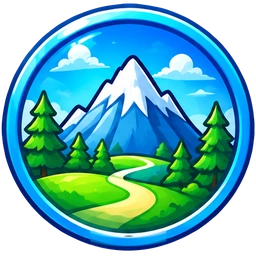
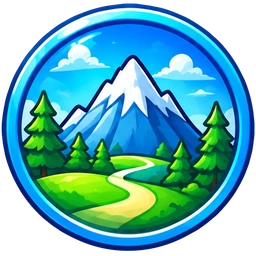
Badges restaurants : plus de démarcation à l'endroit des cadenas (v183)
Claude-Session: https://claude.ai/code/session_015rMa72ZKTeXG5gb4Qifn48

Changed region(s): [[0.3125, 0.875, 0.6875, 1.0]]

diff --git a/js/app.js b/js/app.js
@@ -1,17 +1,17 @@
 // Y'a du peuple ? — logique de l'appli (carte, fiche, signalement, compte).
-import { api, DEMO } from './api.js?v=182';
+import { api, DEMO } from './api.js?v=183';
 import {
   MAP_STYLE_URL, DEFAULT_CENTER, DEFAULT_ZOOM, CONTACT_EMAIL, GOOGLE_CLIENT_ID,
   ROUTE, REFRESH_MS,
-} from './config.js?v=182';
+} from './config.js?v=183';
 import {
   LEVELS, LEVEL_INFO, WAIT_INFO, NO_INFO, levelInfo, describeStatus, mainStatus, brandShort,
   theoryLevelAt, parisNow, bestTimeToday, fmtHour, distanceM, fmtDistance, ago,
   levelFromPercent, gDay, dayHours, openDuringHour, bestTimeFromProfile, openState, hoursLines,
   estimateRoute, fmtDuration,
-} from './levels.js?v=182';
-import { airbnbize, addShieldImage } from './mapstyle.js?v=182';
-import { BRAND_PATHS } from './brands.js?v=182';
+} from './levels.js?v=183';
+import { airbnbize, addShieldImage } from './mapstyle.js?v=183';
+import { BRAND_PATHS } from './brands.js?v=183';
 
 // ---------------------------------------------------------------------------
 // État
@@ -1611,7 +1611,7 @@ async function renderAccount(tab = 'profil', opts = {}) {
     </div>
     <div class="referral">
       <div class="ref-head">
-        <img class="ref-ico" src="icons/badges/ref1.webp?v=182" alt="">
+        <img class="ref-ico" src="icons/badges/ref1.webp?v=183" alt="">
         <div class="grow"><div class="t">Parrainage</div><div class="s">Invite tes amis : vous gagnez tous les deux.</div></div>
         <span class="ref-count"><b>${p.referrals ?? 0}</b>${(p.referrals ?? 0) > 1 ? 'amis' : 'ami'}</span>
       </div>
@@ -1668,8 +1668,8 @@ const custom = {
   async load() { if (!this.list.length) this.list = await api.customizations() || []; return this.list; },
   find(kind, code) { return this.list.find((c) => c.kind === kind && c.code === code); },
   // Valeur = fichier image de l'appli (icons/avatars/…svg, icons/banners/…svg) ; ancien format emoji/dégradé toléré.
-  img(v, cls = '') { return /\.(webp|png|svg)$/.test(v || '') ? `<img src="${v}?v=182" alt="" class="${cls}">` : (v || ''); },
-  bg(v) { return /\.(webp|png|svg)$/.test(v || '') ? `url(${v}?v=182) center/cover` : v; },
+  img(v, cls = '') { return /\.(webp|png|svg)$/.test(v || '') ? `<img src="${v}?v=183" alt="" class="${cls}">` : (v || ''); },
+  bg(v) { return /\.(webp|png|svg)$/.test(v || '') ? `url(${v}?v=183) center/cover` : v; },
   avatar(code) { return this.img(this.find('avatar', code)?.value, 'avatar-img' + (String(code).startsWith('badge_') ? ' is-badge' : '')); },
   // Bannière = ruban qui porte le pseudo (rubans du 16/11/2026, outils/rubans_sheet2.py, découpés tels quels).
   // Pseudo : centré sur la bande de chaque ruban (hauteur mesurée) + contour de la couleur du ruban, foncée.
@@ -1677,7 +1677,7 @@ const custom = {
   ribbon(code, pseudo) {
     const b = this.find('banner', code) || this.list.find((c) => c.kind === 'banner');
     const [ty, tc] = this.RIB[b?.code] || ['46%', '#0B1F3A'];
-    return `<div class="ribbon" style="--ty:${ty};--tc:${tc}">${b ? `<img src="${b.value}?v=182" alt="">` : ''}<span>${esc(pseudo || '')}</span></div>`;
+    return `<div class="ribbon" style="--ty:${ty};--tc:${tc}">${b ? `<img src="${b.value}?v=183" alt="">` : ''}<span>${esc(pseudo || '')}</span></div>`;
   },
 };
 async function openCustomize() {
@@ -1689,7 +1689,7 @@ async function openCustomize() {
     const needBadge = c.requires_badge && !mine.has(c.requires_badge);
     const locked = lvl < c.min_level || needBadge;
     const on = (c.kind === 'avatar' ? p.avatar : p.banner) === c.code;
-    const inner = c.kind === 'avatar' ? `<span class="cz-emoji">${custom.img(c.value, 'cz-img')}</span>` : `<span class="cz-ribbon"><img src="${c.value}?v=182" alt=""></span>`;
+    const inner = c.kind === 'avatar' ? `<span class="cz-emoji">${custom.img(c.value, 'cz-img')}</span>` : `<span class="cz-ribbon"><img src="${c.value}?v=183" alt=""></span>`;
     const label = c.requires_badge ? (needBadge ? '🔒' : '✅') : `${locked ? '🔒 ' : ''}Niv. ${c.min_level}`;
     return `<button type="button" class="cz ${on ? 'on' : ''} ${locked ? 'locked' : ''}" data-kind="${c.kind}" data-code="${c.code}" ${locked ? 'disabled' : ''}>
       ${inner}<span class="cz-lock">${esc(label)}</span></button>`;
@@ -1769,7 +1769,7 @@ const BADGE_ART = new Set(['v1', 'v10', 'v50', 'v100', 'v250', 'v500', 'drive10'
 // Badges en .svg : plus aucun (outils/badges_sheet.py et badges_sheet2.py découpent les images ChatGPT).
 const BADGE_SVG = new Set(); // tous les badges sont maintenant des images ChatGPT (.webp)
 const badgeImg = (code) => BADGE_ART.has(code)
-  ? `<img src="icons/badges/${code}.${BADGE_SVG.has(code) ? 'svg' : 'webp'}?v=182" alt="" class="badge-img">`
+  ? `<img src="icons/badges/${code}.${BADGE_SVG.has(code) ? 'svg' : 'webp'}?v=183" alt="" class="badge-img">`
   : `<span class="badge-emoji">${BADGE_ICONS[code] || '🏅'}</span>`;
 function badgesHtml(rows = []) {
   if (!rows.length) return '<p class="muted">Aucun badge pour le moment.</p>';

diff --git a/index.html b/index.html
@@ -21,13 +21,13 @@
   <link rel="preconnect" href="https://tiles.openfreemap.org" crossorigin>
   <link rel="preconnect" href="https://ygekcpnsjbbdgtmlxdce.supabase.co" crossorigin>
   <link rel="manifest" href="manifest.webmanifest">
-  <link rel="icon" href="icons/fav-64.png?v=182" type="image/png" sizes="64x64">
-  <link rel="icon" href="icons/fav-192.png?v=182" type="image/png" sizes="192x192">
-  <link rel="apple-touch-icon" href="icons/icon-192.png?v=182">
+  <link rel="icon" href="icons/fav-64.png?v=183" type="image/png" sizes="64x64">
+  <link rel="icon" href="icons/fav-192.png?v=183" type="image/png" sizes="192x192">
+  <link rel="apple-touch-icon" href="icons/icon-192.png?v=183">
   <meta name="apple-mobile-web-app-capable" content="yes">
   <meta name="apple-mobile-web-app-status-bar-style" content="default">
   <link rel="stylesheet" href="vendor/maplibre-gl.css">
-  <link rel="stylesheet" href="css/app.css?v=182">
+  <link rel="stylesheet" href="css/app.css?v=183">
 </head>
 <body class="intro">
   <div id="map" aria-label="Carte des restaurants"></div>
@@ -70,7 +70,7 @@
   <section class="welcome" id="welcome" hidden>
     <div class="welcome-inner">
       <div class="welcome-logo">
-        <img src="icons/icon-512.png?v=182" alt="" width="110" height="110" style="border-radius:26px">
+        <img src="icons/icon-512.png?v=183" alt="" width="110" height="110" style="border-radius:26px">
       </div>
       <h1>Y'a du peuple&nbsp;?</h1>
       <p class="slogan" id="slogan">Venu pour manger, pas pour poireauter.</p>
@@ -89,6 +89,6 @@
 
   <script src="vendor/maplibre-gl.js"></script>
   <script src="vendor/supabase.js"></script>
-  <script type="module" src="js/app.js?v=182"></script>
+  <script type="module" src="js/app.js?v=183"></script>
 </body>
 </html>

diff --git a/demo.html b/demo.html
@@ -7,12 +7,12 @@
   <meta name="description" content="L'affluence des fast-foods en direct, salle et Drive.">
   <meta name="theme-color" content="#0B1F3A">
   <link rel="manifest" href="manifest.webmanifest">
-  <link rel="icon" href="icons/fav-64.png?v=182" type="image/png">
-  <link rel="apple-touch-icon" href="icons/icon-192.png?v=182">
+  <link rel="icon" href="icons/fav-64.png?v=183" type="image/png">
+  <link rel="apple-touch-icon" href="icons/icon-192.png?v=183">
   <meta name="apple-mobile-web-app-capable" content="yes">
   <meta name="apple-mobile-web-app-status-bar-style" content="default">
   <link rel="stylesheet" href="vendor/maplibre-gl.css">
-  <link rel="stylesheet" href="css/app.css?v=182">
+  <link rel="stylesheet" href="css/app.css?v=183">
 </head>
 <body class="intro">
   <div id="map" aria-label="Carte des restaurants"></div>
@@ -55,7 +55,7 @@
   <section class="welcome" id="welcome" hidden>
     <div class="welcome-inner">
       <div class="welcome-logo">
-        <img src="icons/icon-512.png?v=182" alt="" width="110" height="110" style="border-radius:26px">
+        <img src="icons/icon-512.png?v=183" alt="" width="110" height="110" style="border-radius:26px">
       </div>
       <h1>Y'a du peuple&nbsp;?</h1>
       <p class="slogan" id="slogan">Venu pour manger, pas pour poireauter.</p>
@@ -75,6 +75,6 @@
   <script>window.YDP_DEMO = true;</script>
   <script src="vendor/maplibre-gl.js"></script>
   <script src="vendor/supabase.js"></script>
-  <script type="module" src="js/app.js?v=182"></script>
+  <script type="module" src="js/app.js?v=183"></script>
 </body>
 </html>

diff --git a/affiche.html b/affiche.html
@@ -68,9 +68,9 @@
     <div class="url">yadupeuple.github.io · gratuit, sans téléchargement</div>
   </div>
 
-  <script src="vendor/qrcode.js?v=182"></script>
+  <script src="vendor/qrcode.js?v=183"></script>
   <script type="module">
-    import { SUPABASE_URL, SUPABASE_PUBLISHABLE_KEY } from './js/config.js?v=182';
+    import { SUPABASE_URL, SUPABASE_PUBLISHABLE_KEY } from './js/config.js?v=183';
     const SITE = 'https://yadupeuple.github.io/';
     const pick = document.getElementById('pick');
     const params = new URLSearchParams(location.search);

diff --git a/js/api.js b/js/api.js
@@ -1,6 +1,6 @@
 // Accès aux données : Supabase en vrai, ou un faux serveur en mode démo (?demo).
-import { SUPABASE_URL, SUPABASE_PUBLISHABLE_KEY } from './config.js?v=182';
-import { createDemoApi } from './demo.js?v=182';
+import { SUPABASE_URL, SUPABASE_PUBLISHABLE_KEY } from './config.js?v=183';
+import { createDemoApi } from './demo.js?v=183';
 
 // Charge une table par pages de 1000 : 5 pages en parallèle, puis la suite si besoin.
 async function pagesInParallel(page, first = 5) {

diff --git a/js/demo.js b/js/demo.js
@@ -1,6 +1,6 @@
 // Faux serveur pour le mode démo (?demo) : aucune donnée réelle n'est lue ni écrite.
-import { DEMO_ESTABLISHMENTS } from './demo-data.js?v=182';
-import { distanceM, LEVELS, theoryLevelAt, parisNow } from './levels.js?v=182';
+import { DEMO_ESTABLISHMENTS } from './demo-data.js?v=183';
+import { distanceM, LEVELS, theoryLevelAt, parisNow } from './levels.js?v=183';
 
 const wait = (ms = 150) => new Promise((r) => setTimeout(r, ms));
 

diff --git a/outils/badges_restos.py b/outils/badges_restos.py
@@ -10,21 +10,24 @@ for code in ['explorer', 'explorer10', 'explorer15', 'explorer20', 'explorer30']
     cx, cy, R = C[code]
     H, W = P.shape[:2]
     yy, xx = np.mgrid[0:H, 0:W]
-    lock = (abs(xx - cx) <= 64) & (yy >= cy + R - 40)
     rr = np.hypot(xx - cx, yy - cy); th = np.arctan2(yy - cy, xx - cx)
     img = P.copy()
-    sel = lock & (rr <= R + 2) & (rr >= R - 30)   # seulement l anneau (le cadenas ne touche que lui)
+    # Zone du cadenas (bas de l'anneau) : chaque pixel prend la couleur interpolée entre les deux bords de la zone,
+    # au même rayon (dégradé continu, aucune démarcation).
+    h = np.radians(25)
+    da = th - np.pi / 2
+    sel = (np.abs(da) < h) & (rr >= R - 36) & (rr <= R + 3)
     ys, xs = np.where(sel)
-    out = np.zeros((len(ys), 3)); wsum = np.zeros(len(ys))
-    for d in np.radians([-30, -26, 26, 30]):
-        t = th[ys, xs] + d; r = rr[ys, xs]
-        sx = cx + r * np.cos(t); sy = cy + r * np.sin(t)
-        v = np.dstack([ndimage.map_coordinates(P[..., c], [sy, sx], order=1) for c in range(3)])[0]
-        out += v; wsum += 1
-    img[ys, xs] = out / wsum[:, None]
-    # petit adoucissement de la zone refaite
-    sm = np.dstack([ndimage.gaussian_filter(img[..., c], 0.8) for c in range(3)])
-    img[sel] = sm[sel]
+    r = rr[ys, xs]; w = (da[ys, xs] + h) / (2 * h)
+    def samp(t0):
+        acc = 0
+        for dt in np.radians([0, 1, 2]):
+            t = t0 + dt * np.sign(t0 - np.pi / 2)
+            sx = cx + r * np.cos(t); sy = cy + r * np.sin(t)
+            acc = acc + np.dstack([ndimage.map_coordinates(P[..., c], [sy, sx], order=1) for c in range(3)])[0]
+        return acc / 3
+    L, Rr = samp(np.pi / 2 - h), samp(np.pi / 2 + h)
+    img[ys, xs] = L * (1 - w)[:, None] + Rr * w[:, None]
     # bord réel angle par angle (le cercle dessiné n'est pas parfait) : on s'arrête au dernier pixel coloré,
     # l'ombre claire sous le badge reste dehors (plus de trait blanc)
     mx_, mn_ = img.max(2), img.min(2)
@@ -37,7 +40,7 @@ for code in ['explorer', 'explorer10', 'explorer15', 'explorer20', 'explorer30']
             x = int(round(cx + d * np.cos(t))); y = int(round(cy + d * np.sin(t)))
             if solid[y, x]: e = d; break
         edge[k] = e
-    zone = np.abs(angs - np.pi / 2) < 0.42          # sous l'ancien cadenas : bord recalculé à partir des côtés
+    zone = np.abs(angs - np.pi / 2) < 0.47          # sous l'ancien cadenas : bord recalculé à partir des côtés
     left, right = np.where(~zone & (angs < np.pi / 2))[0][-6:], np.where(~zone & (angs > np.pi / 2))[0][:6]
     i0, i1 = left[-1], right[0]; e0, e1 = np.median(edge[left]), np.median(edge[right])
     edge[i0 + 1:i1] = np.linspace(e0, e1, i1 - i0 + 1)[1:-1]

diff --git a/CLAUDE.md b/CLAUDE.md
@@ -168,7 +168,7 @@ Erreurs de submit_report : `{ok:false, error, message}` — afficher `message` t
   outils/badges_voyage.py) : tour_zone « Tour de la zone » (5 villes, carte et repères), tour_zone6 « Baroudeur » (10 villes, monuments),
   tour_zone10 « Globe-trotteur » (20 villes, avion) (version finale validée par Alexis le 17/11 au soir) ; paliers 5/10/20 depuis le 17/11 (avant 3/6/10) ; anciennes images dans outils/src/badges_villes_v1/.
 - Badges restaurants (17/11/2026, v175, supabase/2026-11-17_badges_restos.sql, planche d'Alexis outils/src/badges_restos.png,
-  outils/badges_restos.py : cadenas retiré, anneau refait par rotation, bord suivi angle par angle pour ôter le trait blanc) : Explorateur 5 (montagne), Gastronome 10 (toque, ex « Fin gourmet »),
+  outils/badges_restos.py : cadenas retiré, anneau refait par dégradé entre les deux bords (sans démarcation), bord suivi angle par angle pour ôter le trait blanc) : Explorateur 5 (montagne), Gastronome 10 (toque, ex « Fin gourmet »),
   Cartographe 15 (carte + boussole), Habitué du Drive (route ; code explorer20 mais kind drive_reports : 20 signalements au Drive, rangé après « Éclaireur du Drive »), Voyageur international 30 (avion) ;
   anciennes images explorer/explorer10 dans outils/src/badges_restos_v1/.
 - Vitesse du compte (17/11/2026, v179) : la base répond en < 15 ms, l'attente venait des allers-retours réseau à chaque onglet.
